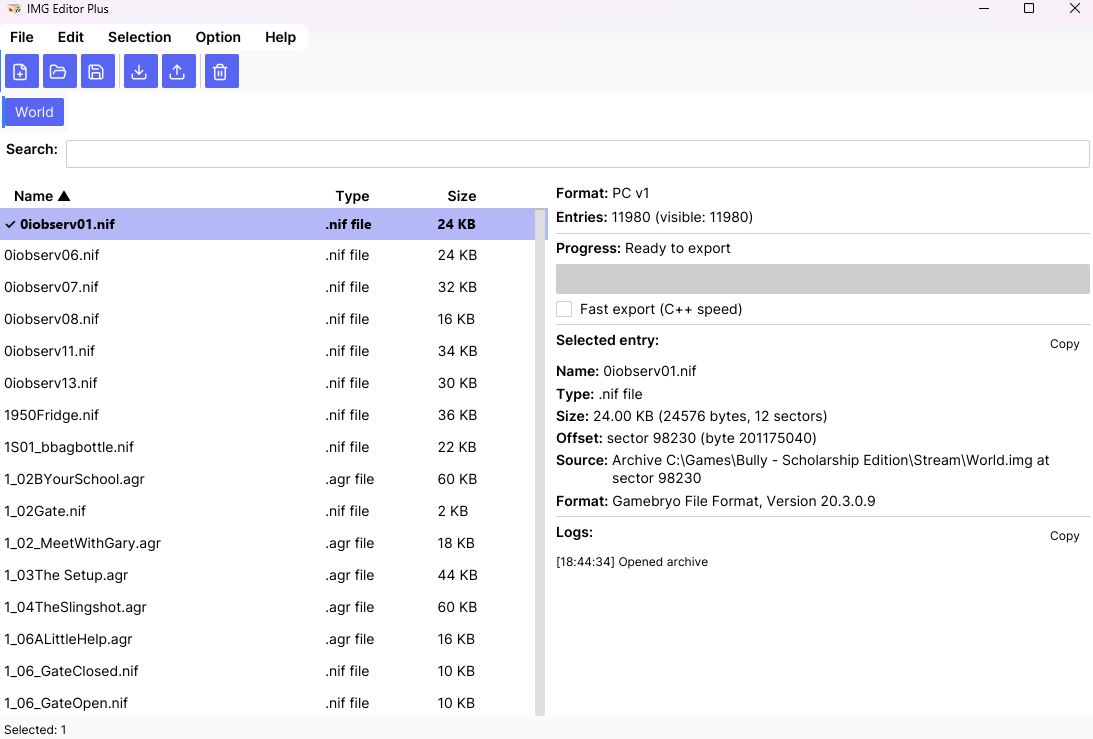
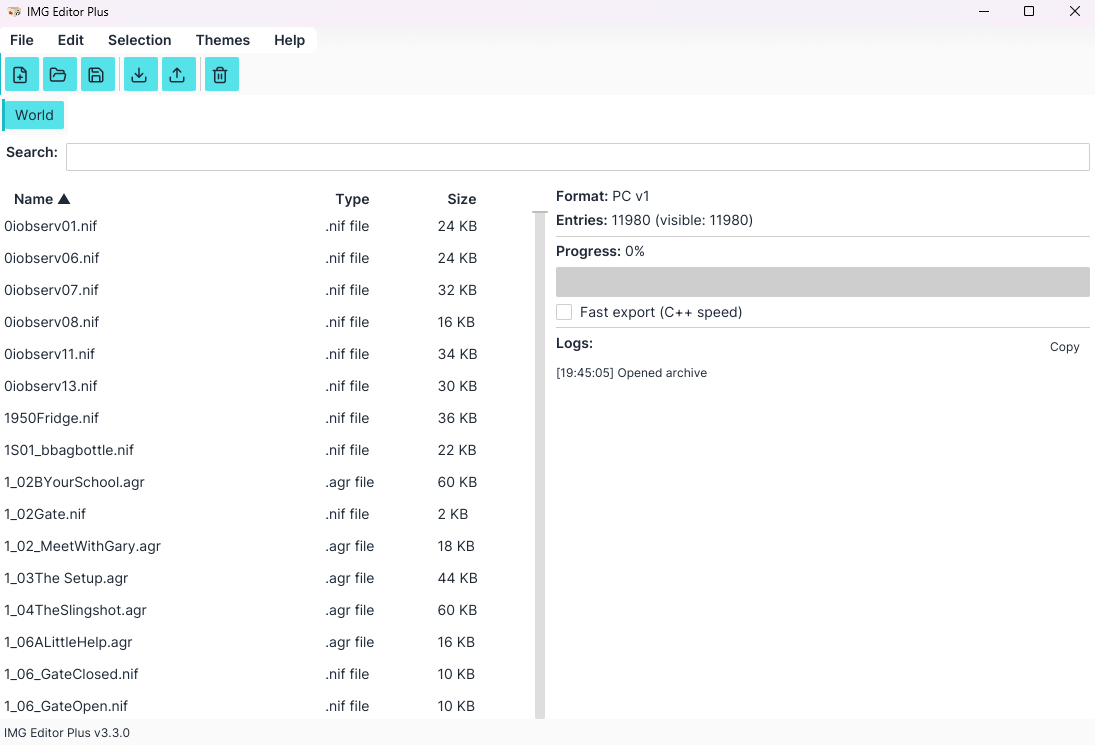
Update README and Default_Light screenshot for v3.3.0 release

diff --git a/README.md b/README.md
@@ -117,7 +117,7 @@ The built-in dark mode for late-night archive work.
 *Deep greys with subtle contrast and a calm purple primary — easy on the eyes in low light.*
 
 ### Catppuccin Mocha
-A cozy, pastel-rich dark theme with soft pinks and blues.
+A cozy, pastel-rich dark theme with soft purples and blues.
 
 ![Catppuccin Mocha theme](asset/themes-images/Catppuccin_Mocha.png)
 *Warm, muted colors that feel like your favorite coffee shop playlist.*